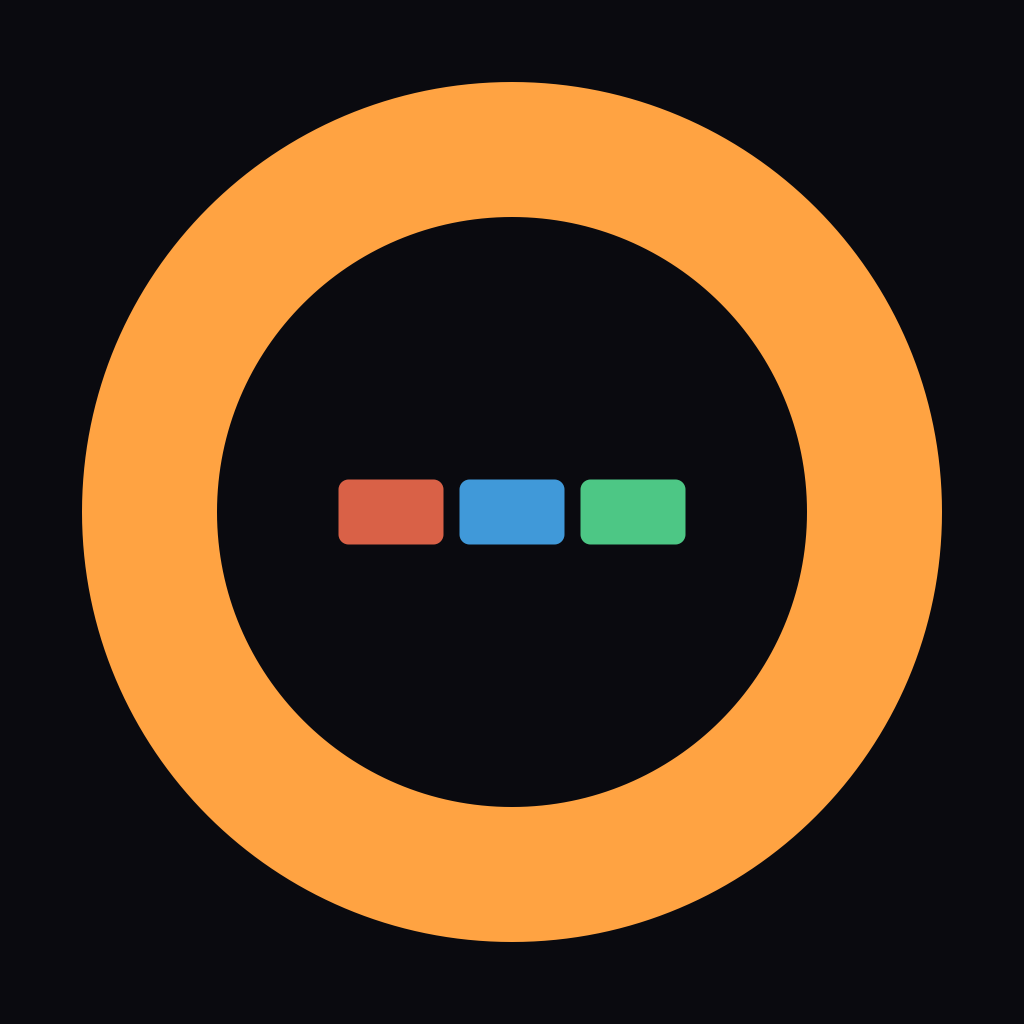
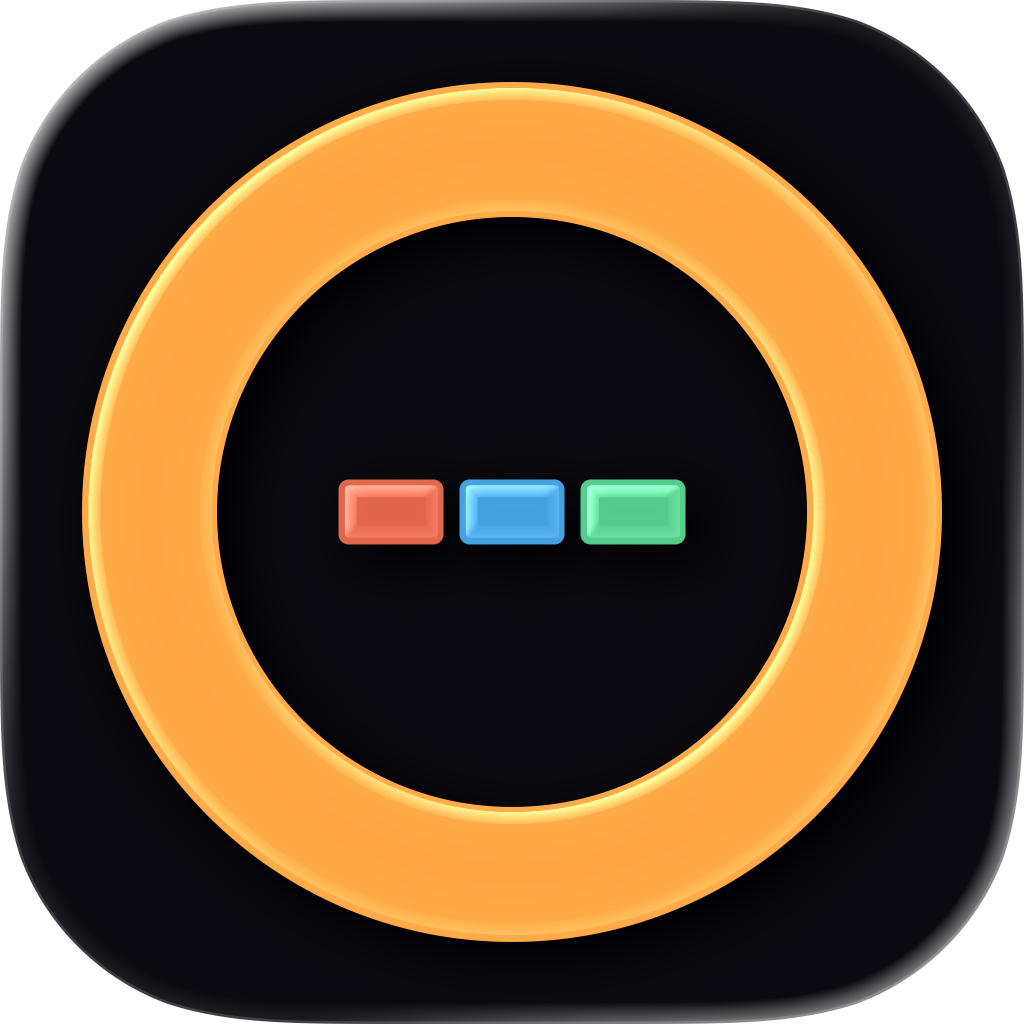
site: Cinegrade — gerçek app ikonu (ASC build), galeri ortalama, ana sayfa kartı

diff --git a/index.html b/index.html
@@ -4,7 +4,7 @@
   <meta charset="utf-8" />
   <meta name="viewport" content="width=device-width, initial-scale=1" />
   <meta name="description" content="umay.dev is a digital product studio. We design and build mobile apps, AI-powered tools, and creative software for iOS, macOS, and Android using Flutter, Swift, Python, and Firebase." />
-  <meta name="keywords" content="umay.dev, digital product studio, mobile apps, Flutter developer, iOS apps, macOS apps, Android apps, ShadowART, Pulse Guard, Pulse Home, MindType, Brolled, Fenno, AI apps, app development studio, voice analysis" />
+  <meta name="keywords" content="umay.dev, digital product studio, mobile apps, Flutter developer, iOS apps, macOS apps, Android apps, ShadowART, Pulse Guard, Pulse Home, MindType, Brolled, Fenno, Cinegrade, film filters, cinematic LUTs, AI apps, app development studio, voice analysis" />
   <meta name="google-site-verification" content="Lb2lzH8SdKJCS7OvynwCe3P3IYIJu48AdjkPJla-pV0" />
   <meta name="author" content="umay.dev" />
   <meta name="creator" content="umay.dev" />
@@ -289,6 +289,27 @@
             <img src="assets/Fenno/09_signals.png" alt="Fenno signals" loading="lazy" />
           </div>
         </a>
+
+        <a href="cinegradeapp/" class="project-card project-featured" data-color="orange">
+          <div class="project-icon">
+            <img src="cinegradeapp/icon.png" alt="Cinegrade - Film Filters and Cinematic LUTs for iOS" loading="lazy" />
+          </div>
+          <div class="project-info">
+            <h3>Cinegrade</h3>
+            <p>Film Filters &amp; Cinematic LUTs — Give your videos and photos the true film look. Professional LUTs, film-inspired color grading and vintage looks. Shoot on your iPhone, grade like a colorist.</p>
+            <div class="project-tags">
+              <span>iOS</span><span>Video</span><span>Film LUTs</span>
+            </div>
+          </div>
+          <div class="project-preview">
+            <img src="cinegradeapp/ss-1.png" alt="Cinegrade film look selection" loading="lazy" />
+            <img src="cinegradeapp/ss-2.png" alt="Cinegrade color grading controls" loading="lazy" />
+            <img src="cinegradeapp/ss-3.png" alt="Cinegrade LUT library" loading="lazy" />
+            <img src="cinegradeapp/ss-4.png" alt="Cinegrade before and after" loading="lazy" />
+          </div>
+        </a>
+
+        <!-- PD:APPS -->
 
         <a href="pulseguard/" class="project-card project-featured" data-color="cyan">
           <div class="project-icon">

diff --git a/cinegradeapp/index.html b/cinegradeapp/index.html
@@ -245,6 +245,8 @@
       padding: 0 20px 8px;
     }
     .ss-scroll::-webkit-scrollbar { display: none; }
+    /* Galeriyi ortala: içerik taşmıyorsa ortalanır, taşıyorsa kaydırma bozulmaz */
+    .ss-scroll::before, .ss-scroll::after { content: ''; margin: auto; }
     .ss-scroll img {
       flex-shrink: 0;
       width: 190px;